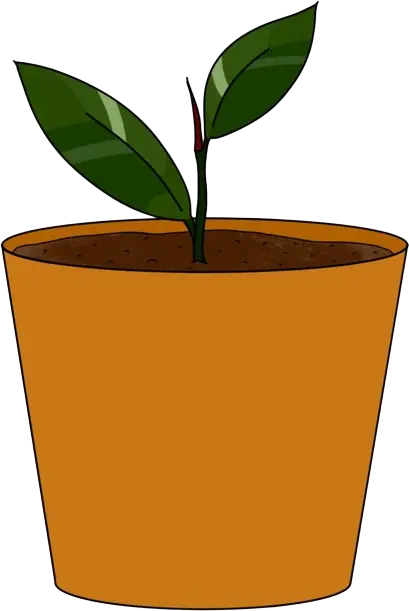
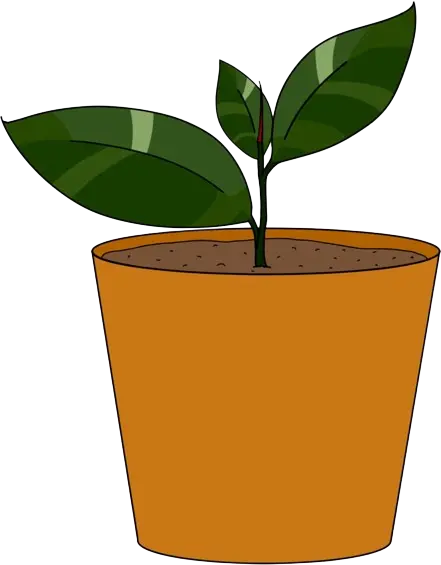
fix aspect ratio for staged items

diff --git a/src/screens/Furniture.tsx b/src/screens/Furniture.tsx
@@ -19,6 +19,7 @@ import { convertPixelCoordsToPosition } from "../utils/positionUtils";
 import "./Furniture.css";
 import reduceGameState from "../state/reduceGameState";
 import GameActions from "../state/GameActions";
+import { stagedItemAspectRatioOverride } from "../utils/itemStageUtils";
 
 type Props = {
   onTouchEnd: () => void;
@@ -117,12 +118,18 @@ export default function Furniture({
   // Don't show the context menu when the furniture is unassembled (box)
   const open = status !== 'blueprint' && Boolean(anchorEl);
   const popoverId = open ? 'simple-popover' : undefined;
-    
 
+  const currentStage = game.itemStages[id]?.currentStage;
+
+  // Certain items such as plants have different images for each stage of growth
+  // We want to adjust the aspect ratio accordingly
+  const aspectRatioForStagedItem = stagedItemAspectRatioOverride[model.id]?.[currentStage];
+    
   // Default box aspect ratio: 500px / 302px = 1.65
-  const aspectRatio = status === "blueprint" ? 1.65 : model.aspectRatio;
+  const aspectRatio = status === "blueprint" ? 1.65 : (aspectRatioForStagedItem ?? model.aspectRatio);
   const scale = status === "blueprint" ? 1.5 : model.scale;
   const imageWidth = BASE_IMAGE_SIZE * scale;
+
   const imagePaddingBottom = BASE_IMAGE_SIZE * scale / aspectRatio;
   
   return (

diff --git a/src/utils/itemStageUtils.ts b/src/utils/itemStageUtils.ts
@@ -75,3 +75,12 @@ export function getSecondsUntilNextStage(state: GameState, itemId: string) {
   
   return Math.floor(Math.max(0, targetTime - Date.now()) / 1000);
 }
+
+export const stagedItemAspectRatioOverride = {
+  "basicPlant": {
+    2: 441 / 565,
+    3: 401 / 621
+  }
+} as Record<string, {
+  [stage: number]: number
+}>;
